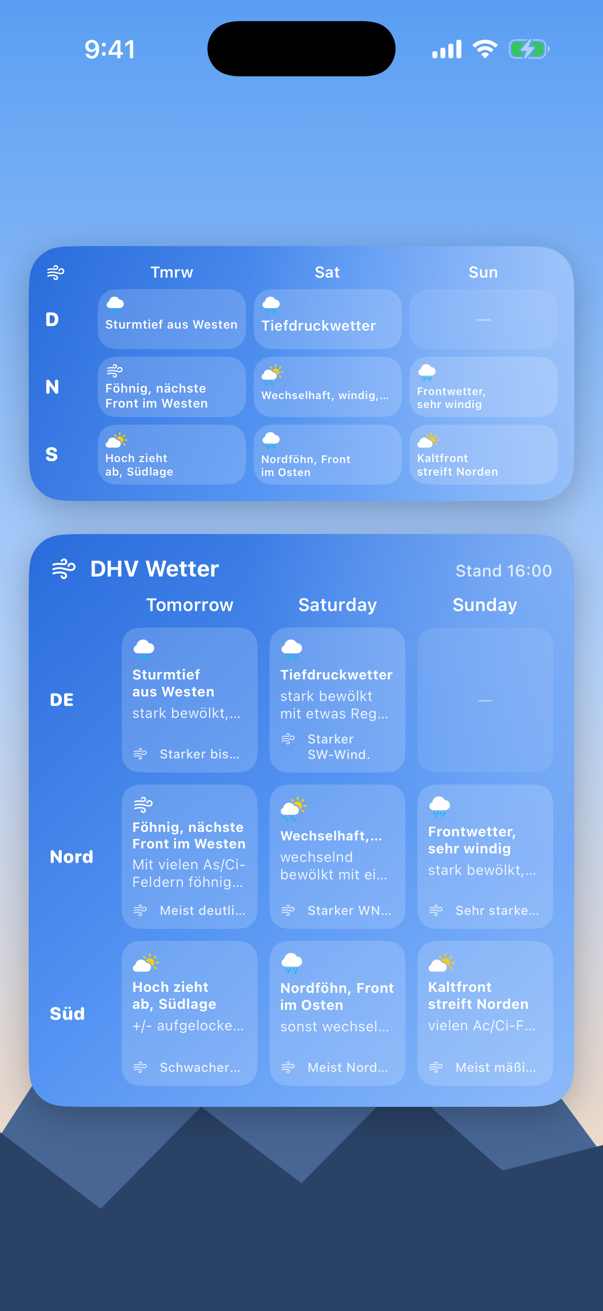
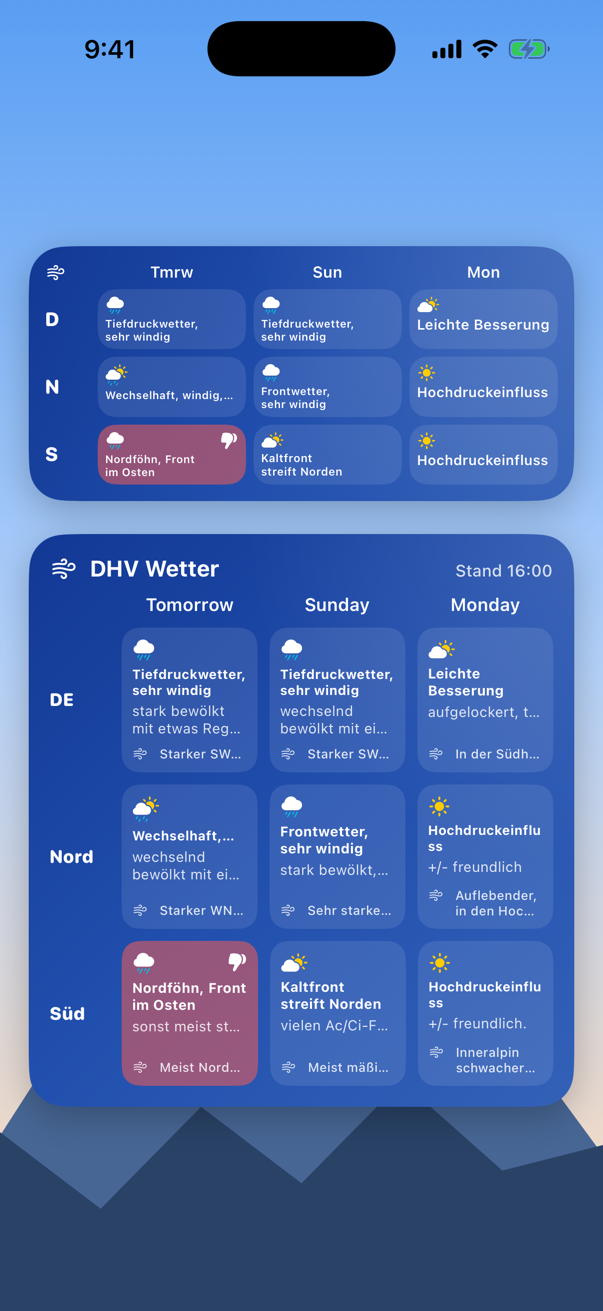
iOS widget: Tinted look (deep blue, strong rating colours) in Default too
Default now uses the deep blue a Tinted Home Screen gives the widget, and
full-colour tiles use the same strengths as Clear and Tinted, so the widget
looks the same whatever the Home Screen appearance. Screenshots refreshed.

diff --git a/ios/Shared/WidgetViews.swift b/ios/Shared/WidgetViews.swift
@@ -23,7 +23,6 @@ struct DayTile: ViewModifier {
     var rating: Rating?
     var emphasis: Double = 1
     @Environment(\.widgetRenderingMode) private var mode
-    @Environment(\.colorScheme) private var scheme
 
     func body(content: Content) -> some View {
         content.background {
@@ -42,10 +41,11 @@ struct DayTile: ViewModifier {
         }
     }
 
+    // Full colour uses the same strengths as the Tinted Home Screen, so the
+    // widget looks the same in every appearance.
     private var fill: Color {
-        guard mode == .fullColor else { return .white.opacity(0.10) }
-        if let rating, rating != .neutral { return rating.tint.opacity(scheme == .dark ? 0.42 : 0.48) }
-        return .white.opacity(scheme == .dark ? 0.10 : 0.17)
+        guard mode == .fullColor, let rating, rating != .neutral else { return .white.opacity(0.10) }
+        return rating.tint.opacity(accentedStrength(rating))
     }
 
     private func accentedStrength(_ rating: Rating) -> Double {
@@ -127,7 +127,7 @@ struct SkyBackground: View {
         ZStack {
             Palette.sky(scheme)
             // Soft sun glow, top right.
-            RadialGradient(colors: [.white.opacity(scheme == .dark ? 0.10 : 0.28), .clear],
+            RadialGradient(colors: [.white.opacity(scheme == .dark ? 0.10 : 0.12), .clear],
                            center: .topTrailing, startRadius: 0, endRadius: 220)
         }
     }

diff --git a/ios/Shared/Theme.swift b/ios/Shared/Theme.swift
@@ -56,11 +56,12 @@ extension DayForecast {
 enum Palette {
     static let warning = Color(red: 1.0, green: 0.72, blue: 0.18)
 
-    /// Alpine dusk sky used behind the glass.
+    /// Background in Default and Dark. The light one matches the deep blue a
+    /// Tinted Home Screen gives the widget.
     static func sky(_ scheme: ColorScheme) -> LinearGradient {
         let colors: [Color] = scheme == .dark
             ? [Color(red: 0.05, green: 0.09, blue: 0.20), Color(red: 0.10, green: 0.16, blue: 0.33), Color(red: 0.18, green: 0.20, blue: 0.38)]
-            : [Color(red: 0.16, green: 0.42, blue: 0.86), Color(red: 0.33, green: 0.58, blue: 0.95), Color(red: 0.55, green: 0.73, blue: 0.98)]
+            : [Color(red: 0.07, green: 0.22, blue: 0.58), Color(red: 0.13, green: 0.31, blue: 0.68), Color(red: 0.20, green: 0.38, blue: 0.72)]
         return LinearGradient(colors: colors, startPoint: .topLeading, endPoint: .bottomTrailing)
     }
 }
